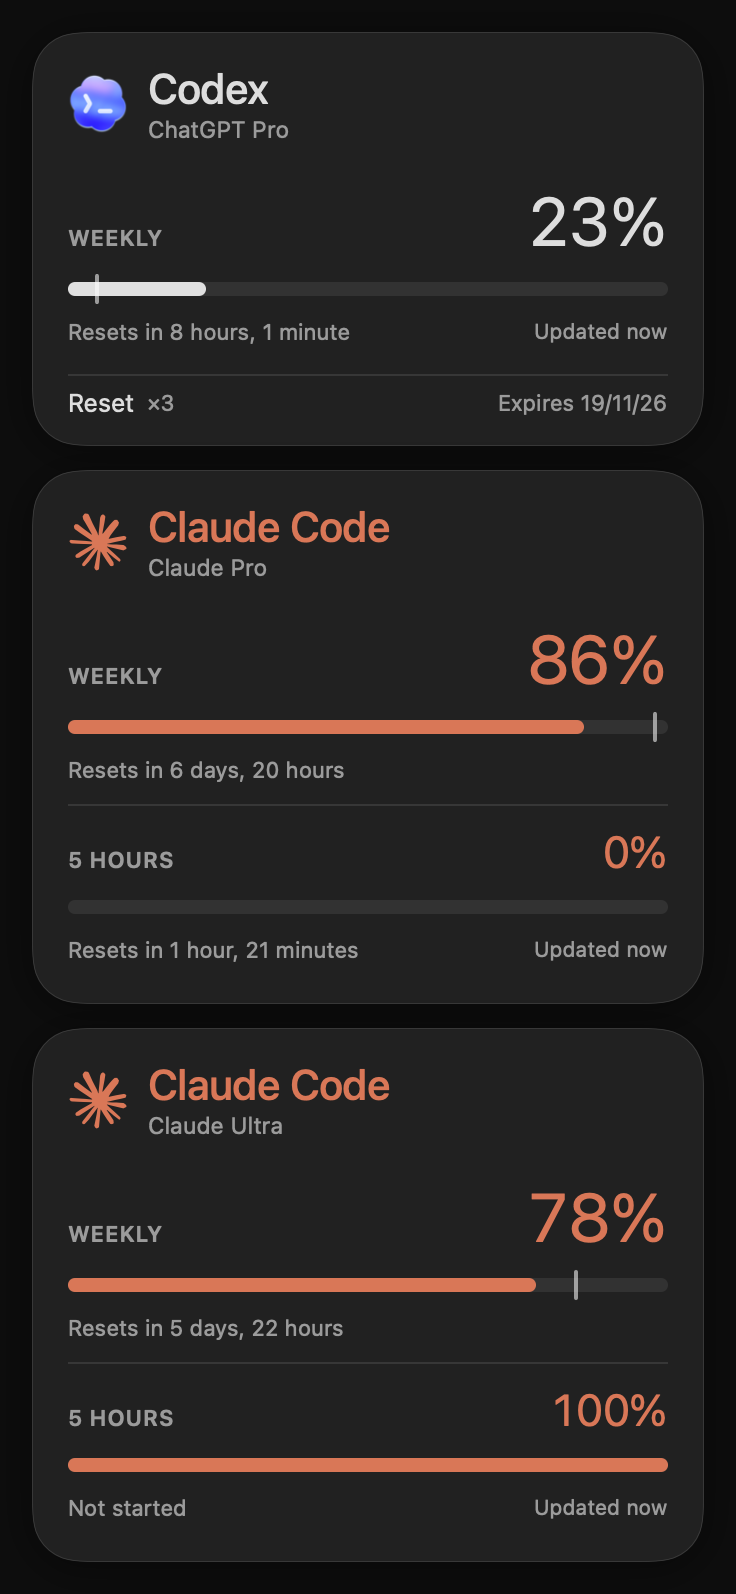
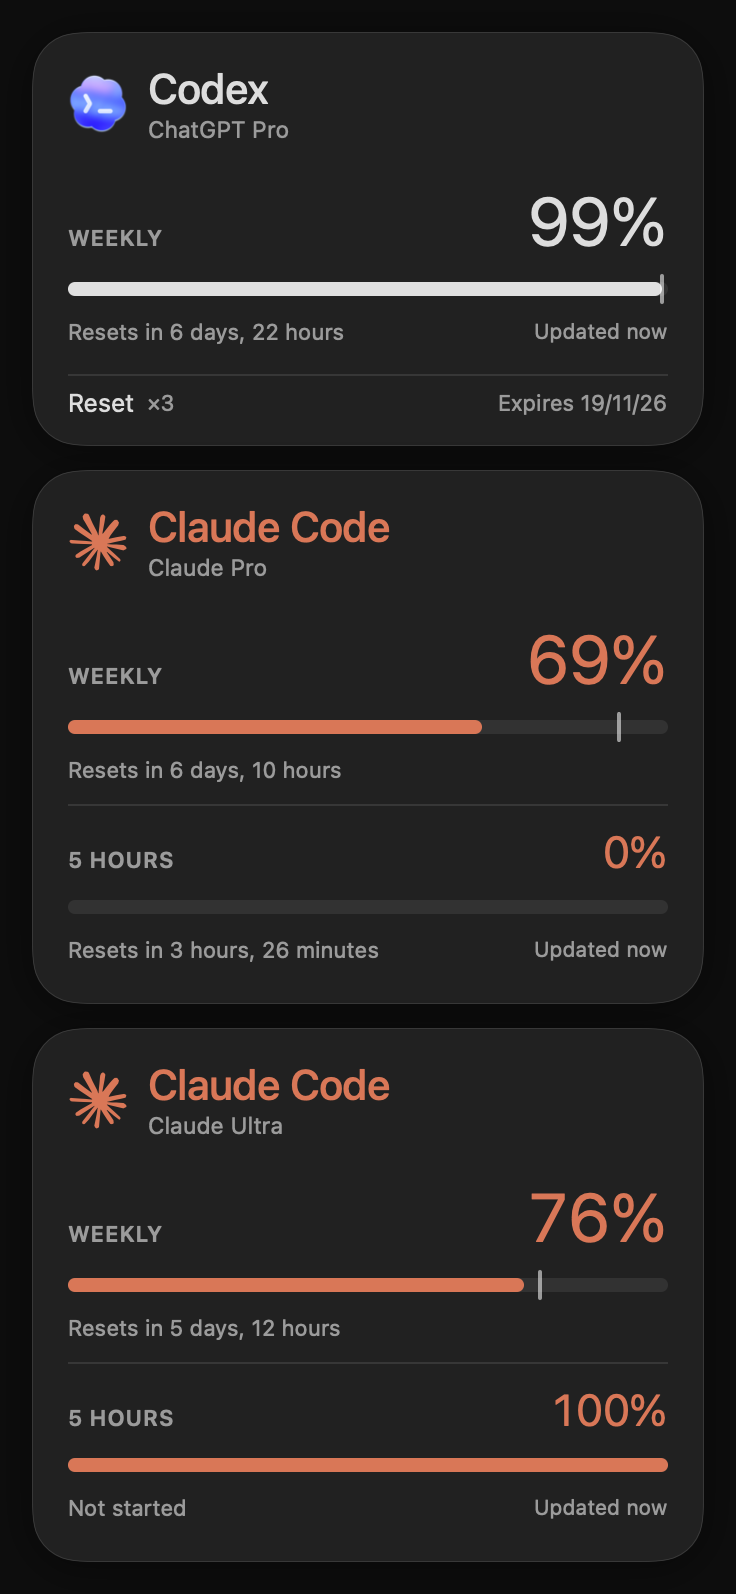
Refresh README screenshots, add menu snapshot, gapless widget grid
- --menu-snapshot renders the menu bar menu for the README
- Widget screenshot packs all sizes into one grid with no empty space
- Regenerate all screenshots from the current UI

diff --git a/Sources/QuotaDeck/main.swift b/Sources/QuotaDeck/main.swift
@@ -117,7 +117,33 @@ func runSnapshot(to path: String, dark: Bool) {
     }
 }
 
-/// Renders the WidgetKit layouts (small, medium, large, extra large) side by side.
+/// Renders the menu bar menu (account rows plus a replica of the native items).
+@MainActor
+func runMenuSnapshot(to path: String, dark: Bool) {
+    let store = UsageStore()
+    store.refresh(force: true)
+    Timer.scheduledTimer(withTimeInterval: 0.2, repeats: true) { t in
+        MainActor.assumeIsolated {
+            guard !store.isRefreshing else { return }
+            t.invalidate()
+            let view = MenuSnapshot(settings: Settings.shared)
+                .environmentObject(store)
+                .padding(24)
+                .background(dark ? Color(white: 0.05) : Color(white: 0.9))
+                .environment(\.colorScheme, dark ? .dark : .light)
+            let r = ImageRenderer(content: view)
+            r.scale = 2
+            if let img = r.nsImage, let tiff = img.tiffRepresentation,
+               let png = NSBitmapImageRep(data: tiff)?.representation(using: .png, properties: [:]) {
+                try? png.write(to: URL(fileURLWithPath: path))
+                print("wrote \(path)")
+            }
+            exit(0)
+        }
+    }
+}
+
+/// Renders the WidgetKit layouts (small, medium, large, extra large) in one image.
 @MainActor
 func runWidgetSnapshot(to path: String, dark: Bool) {
     let store = UsageStore()
@@ -148,12 +174,18 @@ func runWidgetSnapshot(to path: String, dark: Bool) {
                     .frame(width: 164, height: 164)
                     .background(RoundedRectangle(cornerRadius: 28, style: .continuous).fill(bg))
             }
-            let view = VStack(alignment: .leading, spacing: 20) {
-                HStack(alignment: .top, spacing: 20) {
-                    ForEach(entry.accounts) { single($0) }
-                }
-                HStack(alignment: .top, spacing: 20) {
-                    ForEach(0..<3, id: \.self) { i in tile(families[i].0, families[i].1) }
+            // A gapless grid: large | (medium over two smalls), then extra large below.
+            // With 16 pt gutters, 2 smalls = 1 medium wide and 2 larges = 1 extra large wide.
+            let view = VStack(alignment: .leading, spacing: 16) {
+                HStack(alignment: .top, spacing: 16) {
+                    tile(families[2].0, families[2].1)
+                    VStack(alignment: .leading, spacing: 16) {
+                        tile(families[1].0, families[1].1)
+                        HStack(spacing: 16) {
+                            if let first = entry.accounts.first { single(first) }
+                            tile(families[0].0, families[0].1)
+                        }
+                    }
                 }
                 tile(families[3].0, families[3].1)
             }
@@ -177,6 +209,10 @@ let args = CommandLine.arguments
 if let i = args.firstIndex(of: "--widget-snapshot"), i + 1 < args.count {
     app.setActivationPolicy(.prohibited)
     MainActor.assumeIsolated { runWidgetSnapshot(to: args[i + 1], dark: args.contains("--dark")) }
+    app.run()
+} else if let i = args.firstIndex(of: "--menu-snapshot"), i + 1 < args.count {
+    app.setActivationPolicy(.prohibited)
+    MainActor.assumeIsolated { runMenuSnapshot(to: args[i + 1], dark: args.contains("--dark")) }
     app.run()
 } else if let i = args.firstIndex(of: "--snapshot"), i + 1 < args.count {
     app.setActivationPolicy(.prohibited)

diff --git a/Sources/QuotaDeck/StatusMenu.swift b/Sources/QuotaDeck/StatusMenu.swift
@@ -222,6 +222,64 @@ private struct WindowRow: View {
     }
 }
 
+// MARK: - Snapshot
+
+/// The menu as one SwiftUI view, for `--menu-snapshot` (README screenshots). The account
+/// rows are the real ones; the native items are drawn to match NSMenu's layout.
+struct MenuSnapshot: View {
+    let settings: Settings
+    @EnvironmentObject var store: UsageStore
+    @Environment(\.colorScheme) private var scheme
+
+    var body: some View {
+        VStack(alignment: .leading, spacing: 0) {
+            MenuHeader()
+            separator
+            ForEach(Array(store.accounts.enumerated()), id: \.element.id) { i, account in
+                if i > 0 { separator }
+                MenuAccountRow(id: account.id)
+            }
+            separator
+            item("Refresh Now", shortcut: "⌘R")
+            item("Refresh Every", submenu: true)
+            separator
+            item("Show Floating Panel", checked: settings.showWidget)
+            item("Keep Panel on Top", checked: settings.widgetOnTop, enabled: settings.showWidget)
+            item("Launch at Login", checked: settings.launchAtLogin)
+            separator
+            item("Quit QuotaDeck", shortcut: "⌘Q")
+        }
+        .padding(.vertical, 6)
+        .frame(width: StatusMenu.width)
+        .background(RoundedRectangle(cornerRadius: 12, style: .continuous)
+            .fill(scheme == .dark ? Color(white: 0.16) : Color(white: 0.97))
+            .shadow(color: .black.opacity(0.25), radius: 12, y: 4))
+        .overlay(RoundedRectangle(cornerRadius: 12, style: .continuous)
+            .strokeBorder(Color.primary.opacity(0.12), lineWidth: 0.5))
+    }
+
+    private var separator: some View {
+        Rectangle().fill(Color.primary.opacity(0.1)).frame(height: 1)
+            .padding(.horizontal, 14).padding(.vertical, 5)
+    }
+
+    private func item(_ title: String, shortcut: String? = nil, submenu: Bool = false,
+                      checked: Bool = false, enabled: Bool = true) -> some View {
+        HStack(spacing: 4) {
+            Image(systemName: "checkmark").font(.system(size: 11, weight: .semibold))
+                .frame(width: 15).opacity(checked ? 1 : 0)
+            Text(title)
+            Spacer()
+            if let shortcut { Text(shortcut).foregroundStyle(.secondary) }
+            if submenu { Image(systemName: "chevron.right").font(.system(size: 11, weight: .semibold)) }
+        }
+        .font(.system(size: 13))
+        .foregroundStyle(enabled ? .primary : .tertiary)
+        .padding(.horizontal, 14)
+        .frame(height: 22)
+    }
+}
+
 enum MenuTheme {
     static func tint(_ p: Provider) -> Color {
         p == .claude ? Theme.claude : Color(red: 0.30, green: 0.36, blue: 1.0)  // Codex logo blue

diff --git a/README.md b/README.md
@@ -18,9 +18,17 @@ have left, for every account on your Mac.
 - Written in Swift with SwiftUI and AppKit. No dependencies and no CPU use while idle.
 
 <p>
+  <img src="docs/menu-light.png" width="300" alt="Menu bar menu, light mode">
+  <img src="docs/menu-dark.png" width="300" alt="Menu bar menu, dark mode">
+</p>
+
+<details>
+<summary>Floating panel</summary>
+<p>
   <img src="docs/light.png" width="300" alt="Floating panel, light mode">
   <img src="docs/dark.png" width="300" alt="Floating panel, dark mode">
 </p>
+</details>
 
 ## Requirements
 
@@ -124,6 +132,7 @@ are at the top of the script).
 Render with real data without opening the UI, useful for screenshots:
 
 ```sh
+build/QuotaDeck.app/Contents/MacOS/QuotaDeck --menu-snapshot out.png [--dark]    # menu bar menu
 build/QuotaDeck.app/Contents/MacOS/QuotaDeck --snapshot out.png [--dark]         # floating panel
 build/QuotaDeck.app/Contents/MacOS/QuotaDeck --widget-snapshot out.png [--dark]  # all widget sizes
 ```
